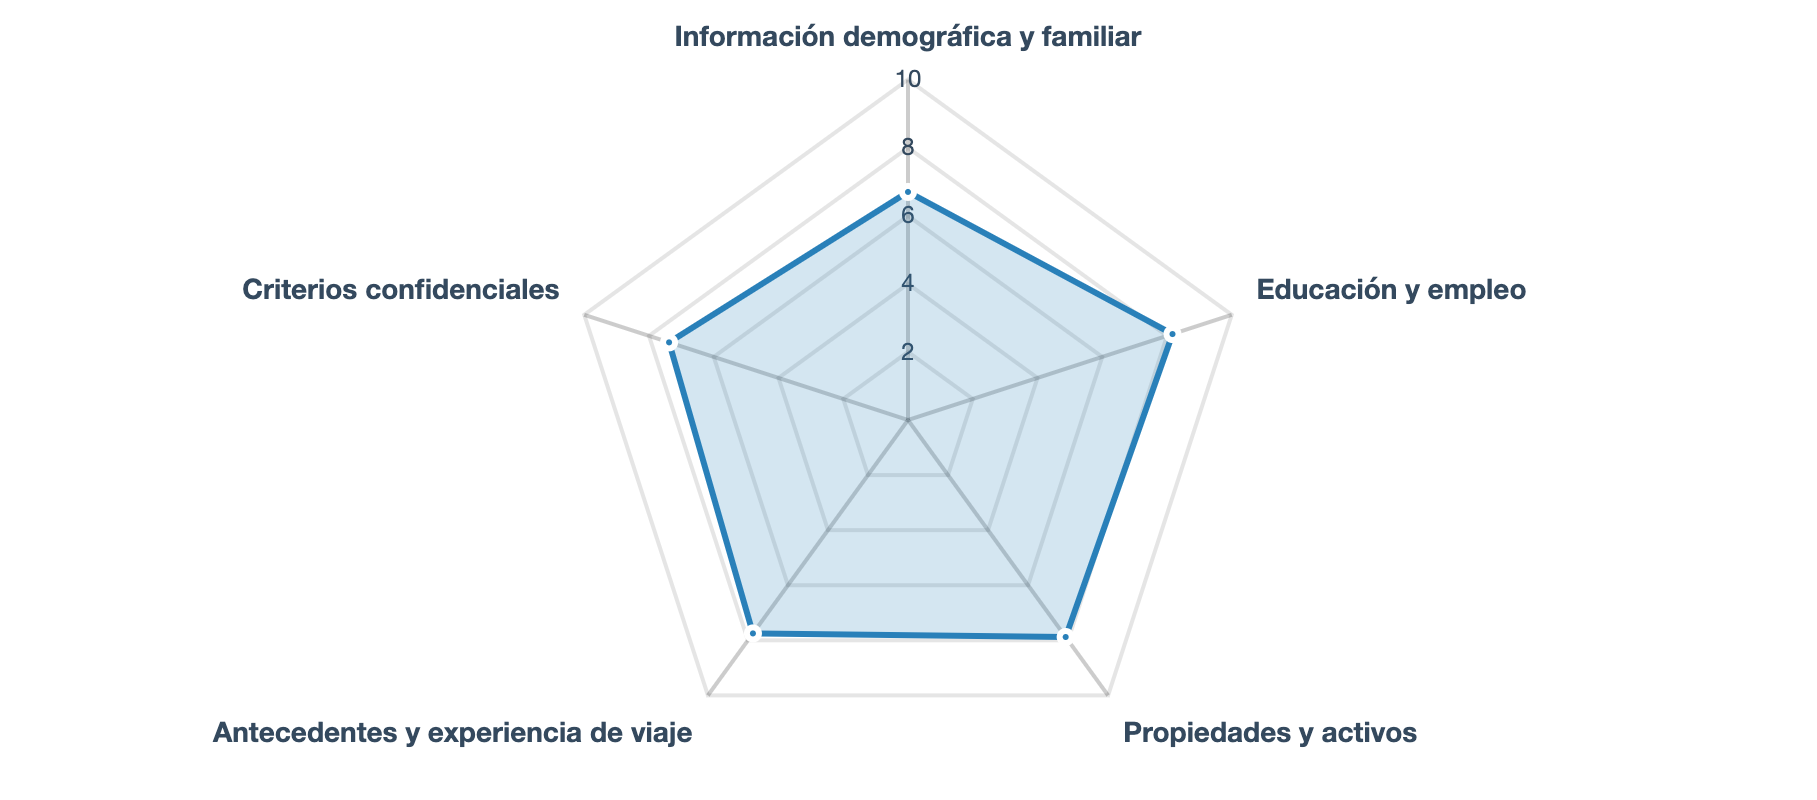
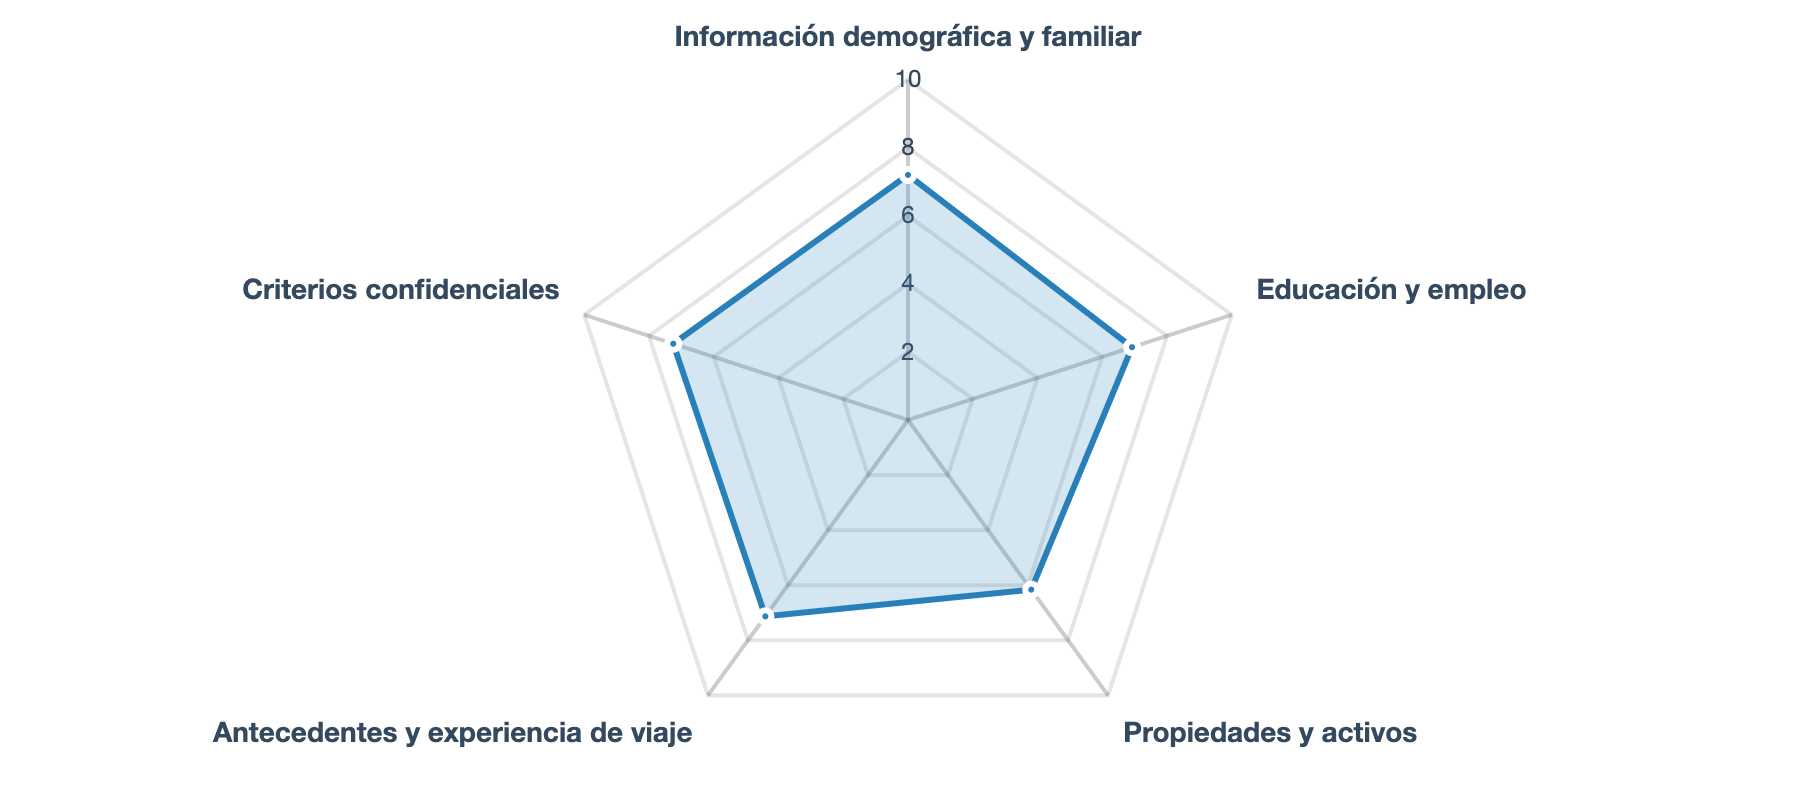
Actualizando grafico de radar

Changed region(s): [[0.3698, 0.3125, 0.6472, 0.8125], [0.4007, 0.2188, 0.5548, 0.375]]

diff --git a/templates/detail.html b/templates/detail.html
@@ -1380,45 +1380,94 @@
             // Radar Chart
             // Radar Chart
             const ctx = document.getElementById('radarChart').getContext('2d');
+            const data = {
+                labels: ['Información demográfica y familiar', 'Educación y empleo', 'Propiedades y activos', 'Antecedentes y experiencia de viaje', 'Criterios confidenciales'],
+                datasets: [{
+                    data: [averageDemography, averageEducation, averageAssets, averageBackground, averageConfidential],
+                    backgroundColor: 'rgba(41, 128, 185, 0.2)',
+                    borderColor: 'rgba(41, 128, 185, 1)',
+                    borderWidth: 3,
+                    pointBackgroundColor: 'rgba(41, 128, 185, 1)',
+                    pointBorderColor: '#fff',
+                    pointHoverBackgroundColor: '#fff',
+                    pointHoverBorderColor: 'rgba(41, 128, 185, 1)'
+                }]
+            };
+
             const config = {
                 type: 'radar',
-                data: {
-                    labels: ['Label1', 'Label2', 'Label3', 'Label4', 'Label5'],
-                    datasets: [{
-                        label: 'Dataset 1',
-                        data: [20, 10, 30, 40, 50],
-                        backgroundColor: 'rgba(255, 99, 132, 0.2)',
-                        borderColor: 'rgba(255, 99, 132, 1)',
-                        borderWidth: 1
-                    }]
-                },
+                data: data,
                 options: {
+                    responsive: true,
+                    maintainAspectRatio: false,
                     scales: {
                         r: {
+                            min: 0,
+                            max: 10,
                             angleLines: {
-                                display: false
+                                color: 'rgba(0, 0, 0, 0.2)',
+                                lineWidth: 2
                             },
-                            suggestedMin: 0,
-                            suggestedMax: 60
+                            grid: {
+                                color: 'rgba(0, 0, 0, 0.1)',
+                                lineWidth: 2
+                            },
+                            pointLabels: {
+                                color: '#34495e',
+                                font: {
+                                    size: 14,
+                                    weight: 'bold'
+                                }
+                            },
+                            ticks: {
+                                backdropColor: 'rgba(255, 255, 255, 0.2)',
+                                color: '#34495e',
+                                beginAtZero: true,
+                                stepSize: 2,
+                                showLabelBackdrop: false
+                            }
+                        }
+                    },
+                    plugins: {
+                        legend: {
+                            display: false
+                        },
+                        tooltip: {
+                            backgroundColor: 'rgba(0, 0, 0, 0.8)',
+                            titleColor: '#ecf0f1',
+                            bodyColor: '#ecf0f1',
+                            borderColor: 'rgba(41, 128, 185, 1)',
+                            borderWidth: 1
                         }
                     }
                 }
             };
+
+            // Crear el gráfico
             const radarChart = new Chart(ctx, config);
 
-          // Esperar a que el gráfico se dibuje y convertirlo en una imagen para usarlo en otro template
-          setTimeout(() => {
-                      const imageURL = document.getElementById('radarChart').toDataURL('image/png');
-                      document.getElementById('generatedImage').src = imageURL;
+            // Esperar a que el gráfico se dibuje y convertirlo en una imagen para usarlo en otro template
+            setTimeout(() => {
+                const imageURL = document.getElementById('radarChart').toDataURL('image/png');
 
-                      // Asegurarse de que la imagen esté completamente cargada antes de generar el PDF
-                      document.getElementById('generatedImage').onload = () => {
-                          document.getElementById('downloadPdf').addEventListener('click', () => {
-                              const element = document.querySelector('.container');
-                              html2pdf().from(element).save();
-                          });
-                      };
-                  }, 1000);
+                // Enviar la imagen al servidor
+                fetch('/save-image', {
+                    method: 'POST',
+                    headers: {
+                        'Content-Type': 'application/json'
+                    },
+                    body: JSON.stringify({ image: imageURL })
+                })
+                .then(response => response.json())
+                .then(data => {
+                    console.log('Imagen guardada en:', data.imagePath);
+                    // Puedes usar data.imagePath para mostrar la imagen en el template actual si es necesario
+                    document.getElementById('generatedImage').src = data.imagePath;
+                })
+                .catch(error => {
+                    console.error('Error al guardar la imagen:', error);
+                });
+            }, 1000);
 
         });
 
